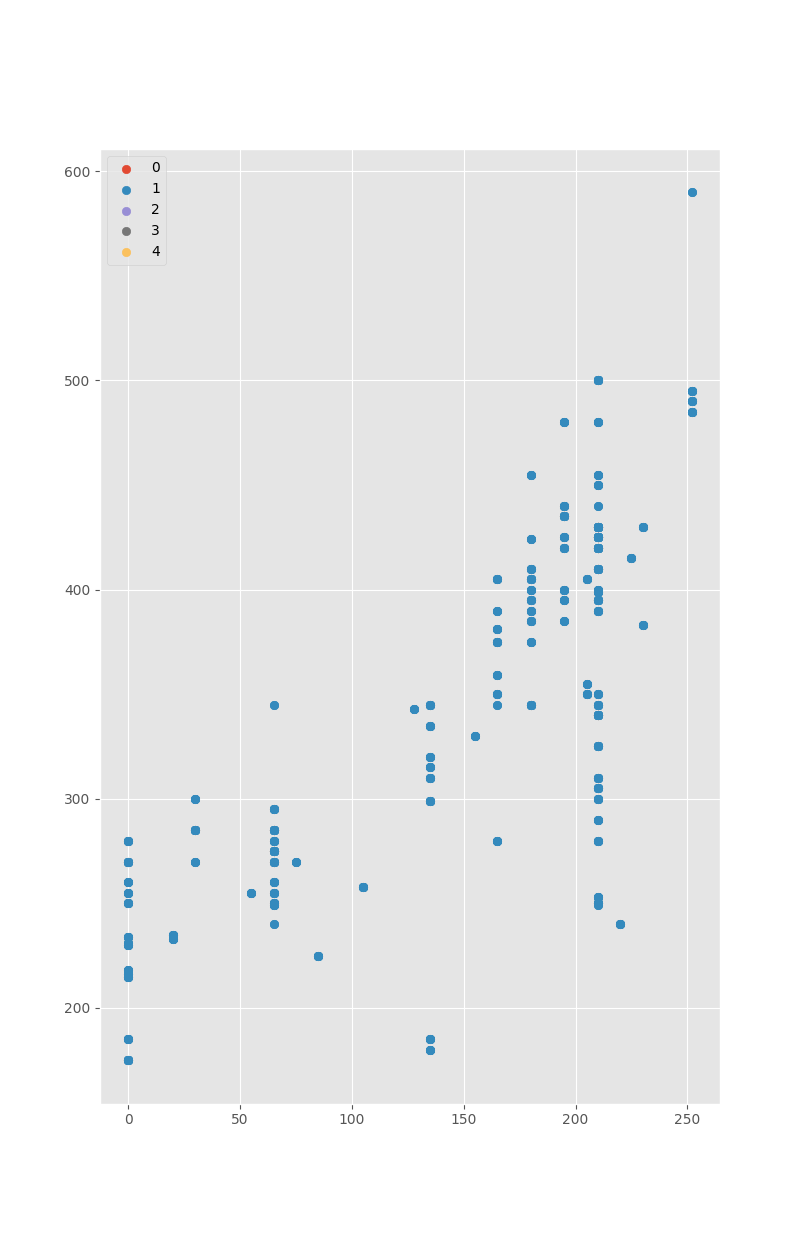
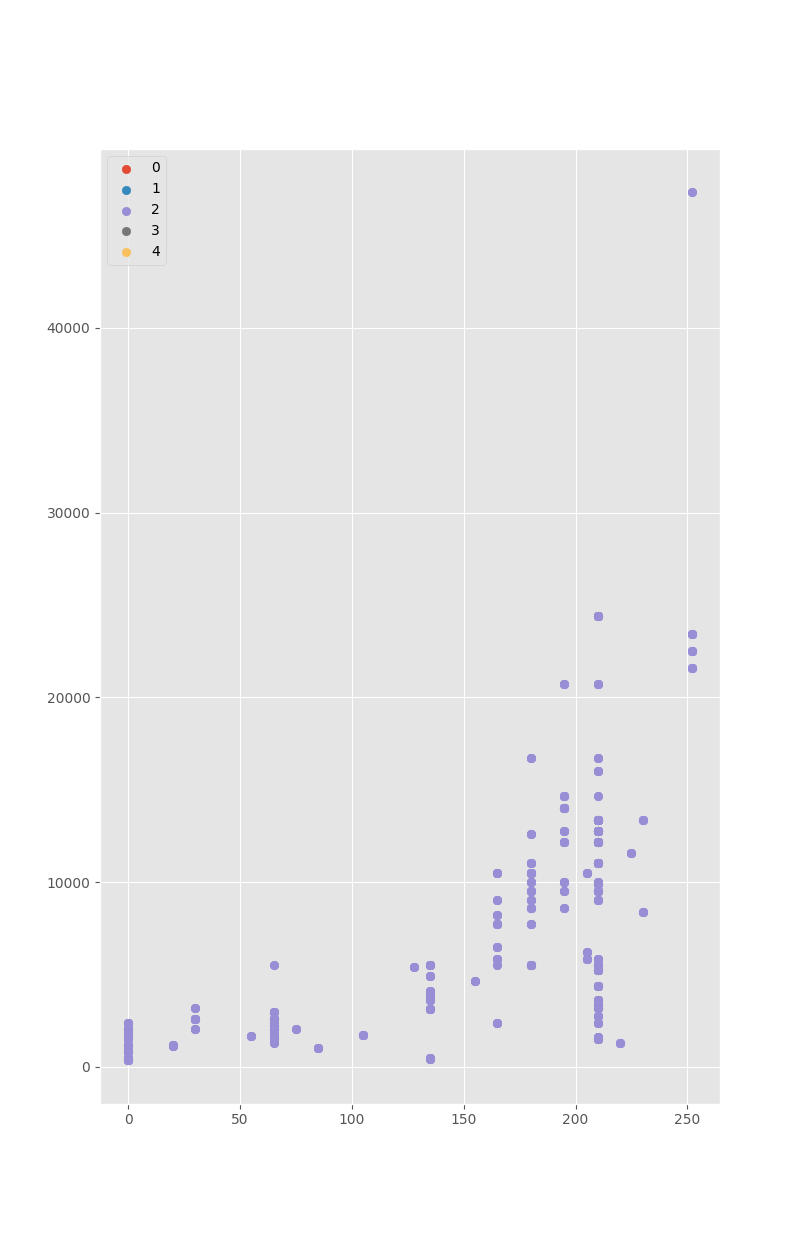
rewardを変更

diff --git a/pokemon_ml_design/actions.py b/pokemon_ml_design/actions.py
@@ -12,8 +12,8 @@ class Action:
 
 ACTIONS: List[Action] = [
     Action(label='逃げる', performance=-math.inf, cost=0),
-    Action(label='モンスターボールを投げる', performance=0, cost=1000),
-    Action(label='スーパーボールを投げる', performance=100, cost=10000),
-    Action(label='ハイパーボールを投げる', performance=200, cost=30000),
-    Action(label='マスターボールを投げる', performance=math.inf, cost=50000),
+    Action(label='モンスターボールを投げる', performance=0, cost=300),
+    Action(label='スーパーボールを投げる', performance=100, cost=1000),
+    Action(label='ハイパーボールを投げる', performance=200, cost=3000),
+    Action(label='マスターボールを投げる', performance=math.inf, cost=40000),
 ]
